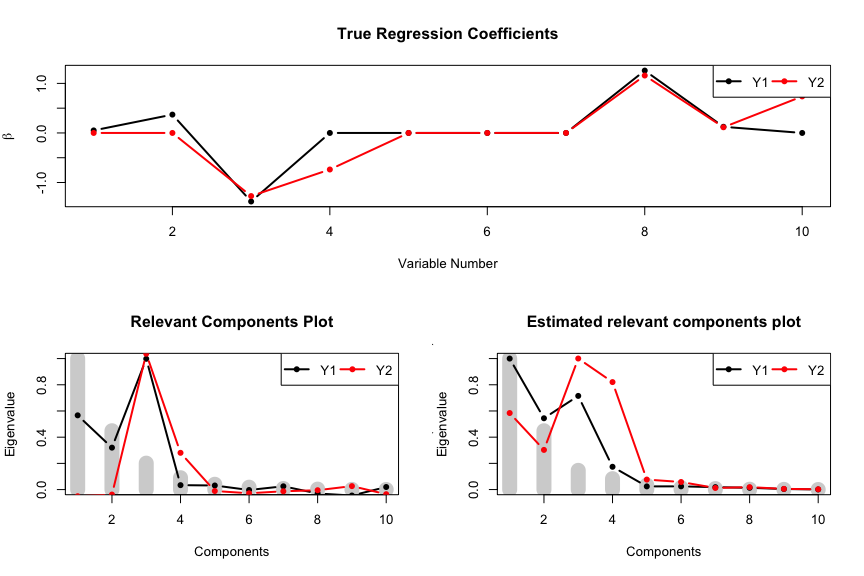
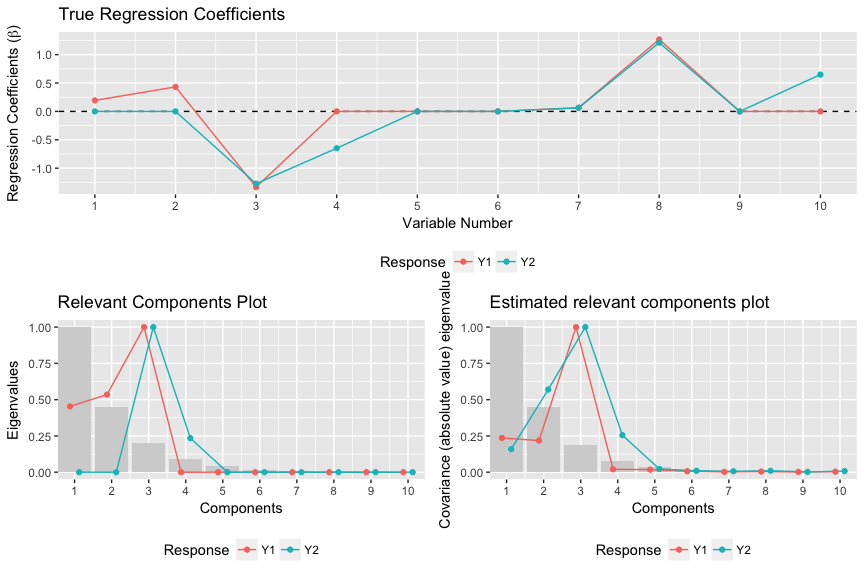
plot function for simrel-m and someplts in pkgdown site is updated

diff --git a/docs/index.html b/docs/index.html
@@ -32,7 +32,14 @@
   <a href="reference/index.html">Reference</a>
 </li>
       </ul>
-<ul class="nav navbar-nav navbar-right"></ul>
+<ul class="nav navbar-nav navbar-right">
+<li>
+  <a href="https://github.com/therimalaya/simulatr">
+    <span class="fa fa-github fa-lg"></span>
+     
+  </a>
+</li>
+      </ul>
 </div>
 <!--/.nav-collapse -->
   </div>
@@ -123,9 +130,8 @@ sim_obj &lt;-<span class="st"> </span>
     <span class="dt">type   =</span> <span class="st">"univariate"</span> <span class="co"># Univariate linear model data simulation</span>
 )</code></pre></div>
 <p>Here <code>sim_obj</code> is a object with class <code>simrel</code> and constitue of a list of simulated linear model data along with other relevant properties. Lets use <code>plot.simulatr</code> function to overview the situation,</p>
-<div class="sourceCode"><pre class="sourceCode r"><code class="sourceCode r"><span class="kw">layout</span>(<span class="kw">matrix</span>(<span class="kw">c</span>(<span class="dv">1</span>, <span class="dv">1</span>, <span class="dv">2</span>, <span class="dv">3</span>), <span class="dv">2</span>, <span class="dv">2</span>, <span class="dt">byrow =</span> <span class="ot">TRUE</span>))
-<span class="kw"><a href="reference/plot_simulatr.html">plot_simulatr</a></span>(sim_obj)</code></pre></div>
-<p><img src="figure/simrel1-plot-1.png" width="864"></p>
+<div class="sourceCode"><pre class="sourceCode r"><code class="sourceCode r"><span class="kw"><a href="reference/ggplot_simulatr.html">ggplot_simulatr</a></span>(sim_obj, <span class="dt">layout =</span> <span class="kw">matrix</span>(<span class="kw">c</span>(<span class="dv">1</span>, <span class="dv">1</span>, <span class="dv">2</span>, <span class="dv">3</span>), <span class="dv">2</span>, <span class="dv">2</span>, <span class="dt">byrow =</span> <span class="ot">TRUE</span>))</code></pre></div>
+<p><img src="figure/simrel1-plot-1.png" width="100%"></p>
 </div>
 <div id="bivariate-simulation" class="section level2">
 <h2 class="hasAnchor">
@@ -144,9 +150,8 @@ sim_obj &lt;-<span class="st"> </span>
     <span class="dt">type   =</span> <span class="st">"bivariate"</span>
   )</code></pre></div>
 <p>Lets look at the plot,</p>
-<div class="sourceCode"><pre class="sourceCode r"><code class="sourceCode r"><span class="kw">layout</span>(<span class="kw">matrix</span>(<span class="kw">c</span>(<span class="dv">1</span>, <span class="dv">1</span>, <span class="dv">2</span>, <span class="dv">3</span>), <span class="dv">2</span>, <span class="dv">2</span>, <span class="dt">byrow =</span> <span class="ot">TRUE</span>))
-<span class="kw"><a href="reference/plot_simulatr.html">plot_simulatr</a></span>(simrel2_obj)</code></pre></div>
-<p><img src="figure/simrel2_plot-1.png" width="864"></p>
+<div class="sourceCode"><pre class="sourceCode r"><code class="sourceCode r"><span class="kw"><a href="reference/ggplot_simulatr.html">ggplot_simulatr</a></span>(simrel2_obj, <span class="dt">layout =</span> <span class="kw">matrix</span>(<span class="kw">c</span>(<span class="dv">1</span>, <span class="dv">1</span>, <span class="dv">2</span>, <span class="dv">3</span>), <span class="dv">2</span>, <span class="dv">2</span>, <span class="dt">byrow =</span> <span class="ot">TRUE</span>))</code></pre></div>
+<p><img src="figure/simrel2_plot-1.png" width="100%"></p>
 </div>
 <div id="multivariate-simulation" class="section level2">
 <h2 class="hasAnchor">
@@ -168,9 +173,8 @@ sim_obj &lt;-<span class="st"> </span>
     <span class="dt">type   =</span> <span class="st">"multivariate"</span>                      <span class="co"># multivariate simulation</span>
   )</code></pre></div>
 <p>Lets look at the <code>simrel</code> plot;</p>
-<div class="sourceCode"><pre class="sourceCode r"><code class="sourceCode r"><span class="kw">layout</span>(<span class="kw">matrix</span>(<span class="kw">c</span>(<span class="dv">1</span>, <span class="dv">1</span>, <span class="dv">2</span>, <span class="dv">3</span>), <span class="dv">2</span>, <span class="dv">2</span>, <span class="dt">byrow =</span> <span class="ot">TRUE</span>))
-<span class="kw"><a href="reference/plot_simulatr.html">plot_simulatr</a></span>(simrel_m_obj)</code></pre></div>
-<p><img src="figure/simrelm_plot-1.png" width="864"></p>
+<div class="sourceCode"><pre class="sourceCode r"><code class="sourceCode r"><span class="kw"><a href="reference/ggplot_simulatr.html">ggplot_simulatr</a></span>(simrel_m_obj, <span class="dt">layout =</span> <span class="kw">matrix</span>(<span class="kw">c</span>(<span class="dv">1</span>, <span class="dv">1</span>, <span class="dv">2</span>, <span class="dv">3</span>), <span class="dv">2</span>, <span class="dv">2</span>, <span class="dt">byrow =</span> <span class="ot">TRUE</span>))</code></pre></div>
+<p><img src="figure/simrelm_plot-1.png" width="100%"></p>
 </div>
 <div id="rstudio-addins" class="section level2">
 <h2 class="hasAnchor">

diff --git a/docs/authors.html b/docs/authors.html
@@ -56,7 +56,12 @@
       </ul>
       
       <ul class="nav navbar-nav navbar-right">
-        
+        <li>
+  <a href="https://github.com/therimalaya/simulatr">
+    <span class="fa fa-github fa-lg"></span>
+     
+  </a>
+</li>
       </ul>
     </div><!--/.nav-collapse -->
   </div><!--/.container -->

diff --git a/docs/reference/app_simulatr.html b/docs/reference/app_simulatr.html
@@ -56,7 +56,12 @@
       </ul>
       
       <ul class="nav navbar-nav navbar-right">
-        
+        <li>
+  <a href="https://github.com/therimalaya/simulatr">
+    <span class="fa fa-github fa-lg"></span>
+     
+  </a>
+</li>
       </ul>
     </div><!--/.nav-collapse -->
   </div><!--/.container -->

diff --git a/docs/reference/ggplot_simulatr.html b/docs/reference/ggplot_simulatr.html
@@ -56,7 +56,12 @@
       </ul>
       
       <ul class="nav navbar-nav navbar-right">
-        
+        <li>
+  <a href="https://github.com/therimalaya/simulatr">
+    <span class="fa fa-github fa-lg"></span>
+     
+  </a>
+</li>
       </ul>
     </div><!--/.nav-collapse -->
   </div><!--/.container -->

diff --git a/docs/reference/index.html b/docs/reference/index.html
@@ -56,7 +56,12 @@
       </ul>
       
       <ul class="nav navbar-nav navbar-right">
-        
+        <li>
+  <a href="https://github.com/therimalaya/simulatr">
+    <span class="fa fa-github fa-lg"></span>
+     
+  </a>
+</li>
       </ul>
     </div><!--/.nav-collapse -->
   </div><!--/.container -->

diff --git a/docs/reference/parse_parm.html b/docs/reference/parse_parm.html
@@ -56,7 +56,12 @@
       </ul>
       
       <ul class="nav navbar-nav navbar-right">
-        
+        <li>
+  <a href="https://github.com/therimalaya/simulatr">
+    <span class="fa fa-github fa-lg"></span>
+     
+  </a>
+</li>
       </ul>
     </div><!--/.nav-collapse -->
   </div><!--/.container -->

diff --git a/docs/reference/plot_simulatr.html b/docs/reference/plot_simulatr.html
@@ -56,7 +56,12 @@
       </ul>
       
       <ul class="nav navbar-nav navbar-right">
-        
+        <li>
+  <a href="https://github.com/therimalaya/simulatr">
+    <span class="fa fa-github fa-lg"></span>
+     
+  </a>
+</li>
       </ul>
     </div><!--/.nav-collapse -->
   </div><!--/.container -->

diff --git a/docs/reference/simrel.html b/docs/reference/simrel.html
@@ -56,7 +56,12 @@
       </ul>
       
       <ul class="nav navbar-nav navbar-right">
-        
+        <li>
+  <a href="https://github.com/therimalaya/simulatr">
+    <span class="fa fa-github fa-lg"></span>
+     
+  </a>
+</li>
       </ul>
     </div><!--/.nav-collapse -->
   </div><!--/.container -->

diff --git a/docs/reference/simrel2.html b/docs/reference/simrel2.html
@@ -56,7 +56,12 @@
       </ul>
       
       <ul class="nav navbar-nav navbar-right">
-        
+        <li>
+  <a href="https://github.com/therimalaya/simulatr">
+    <span class="fa fa-github fa-lg"></span>
+     
+  </a>
+</li>
       </ul>
     </div><!--/.nav-collapse -->
   </div><!--/.container -->

diff --git a/docs/reference/simrel_m.html b/docs/reference/simrel_m.html
@@ -56,7 +56,12 @@
       </ul>
       
       <ul class="nav navbar-nav navbar-right">
-        
+        <li>
+  <a href="https://github.com/therimalaya/simulatr">
+    <span class="fa fa-github fa-lg"></span>
+     
+  </a>
+</li>
       </ul>
     </div><!--/.nav-collapse -->
   </div><!--/.container -->

diff --git a/docs/reference/simulatr.html b/docs/reference/simulatr.html
@@ -56,7 +56,12 @@
       </ul>
       
       <ul class="nav navbar-nav navbar-right">
-        
+        <li>
+  <a href="https://github.com/therimalaya/simulatr">
+    <span class="fa fa-github fa-lg"></span>
+     
+  </a>
+</li>
       </ul>
     </div><!--/.nav-collapse -->
   </div><!--/.container -->

diff --git a/README.md b/README.md
@@ -60,11 +60,10 @@ sim_obj <-
 Here `sim_obj` is a object with class `simrel` and constitue of a list of simulated linear model data along with other relevant properties. Lets use `plot.simulatr` function to overview the situation,
 
 ``` r
-layout(matrix(c(1, 1, 2, 3), 2, 2, byrow = TRUE))
-plot_simulatr(sim_obj)
+ggplot_simulatr(sim_obj, layout = matrix(c(1, 1, 2, 3), 2, 2, byrow = TRUE))
 ```
 
-![](figure/simrel1-plot-1.png)
+<img src="figure/simrel1-plot-1.png" width="100%" />
 
 Bivariate Simulation
 --------------------
@@ -89,11 +88,10 @@ simrel2_obj <-
 Lets look at the plot,
 
 ``` r
-layout(matrix(c(1, 1, 2, 3), 2, 2, byrow = TRUE))
-plot_simulatr(simrel2_obj)
+ggplot_simulatr(simrel2_obj, layout = matrix(c(1, 1, 2, 3), 2, 2, byrow = TRUE))
 ```
 
-![](figure/simrel2_plot-1.png)
+<img src="figure/simrel2_plot-1.png" width="100%" />
 
 Multivariate Simulation
 -----------------------
@@ -123,11 +121,10 @@ simrel_m_obj <-
 Lets look at the `simrel` plot;
 
 ``` r
-layout(matrix(c(1, 1, 2, 3), 2, 2, byrow = TRUE))
-plot_simulatr(simrel_m_obj)
+ggplot_simulatr(simrel_m_obj, layout = matrix(c(1, 1, 2, 3), 2, 2, byrow = TRUE))
 ```
 
-![](figure/simrelm_plot-1.png)
+<img src="figure/simrelm_plot-1.png" width="100%" />
 
 RStudio Addins
 --------------
